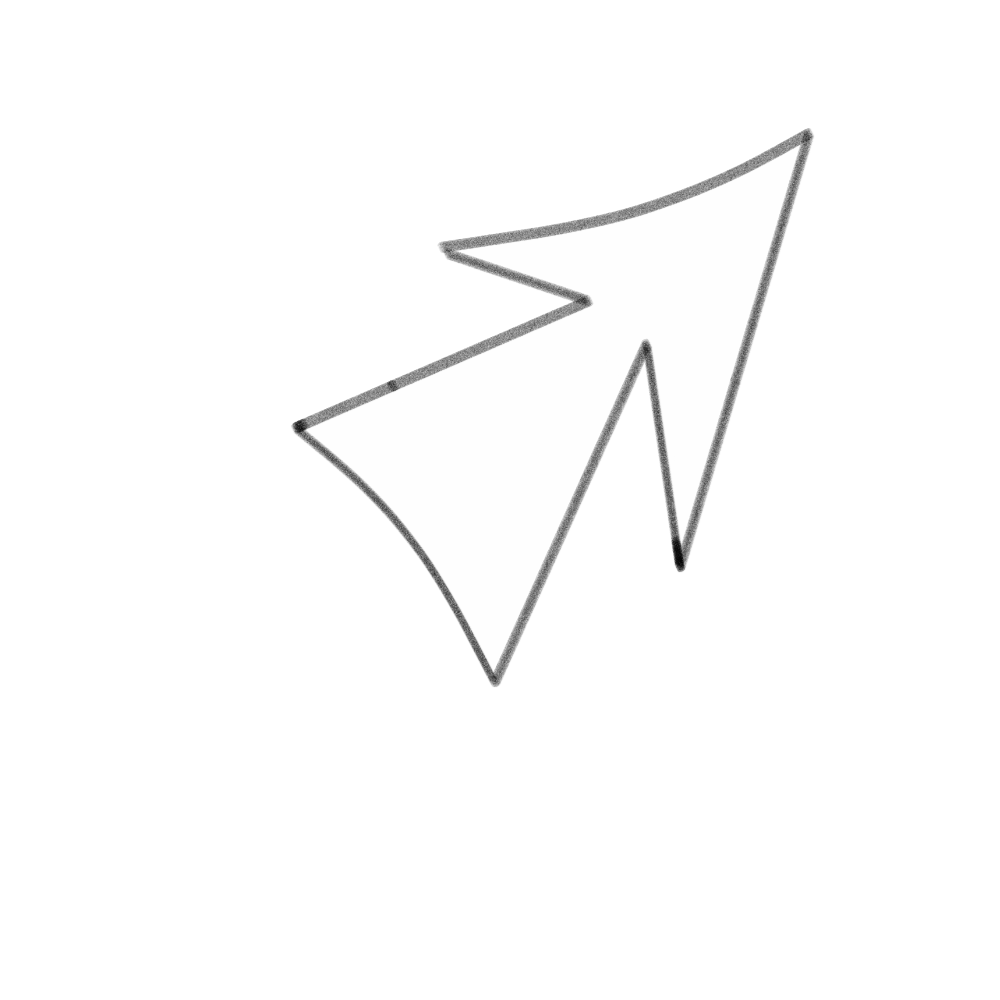
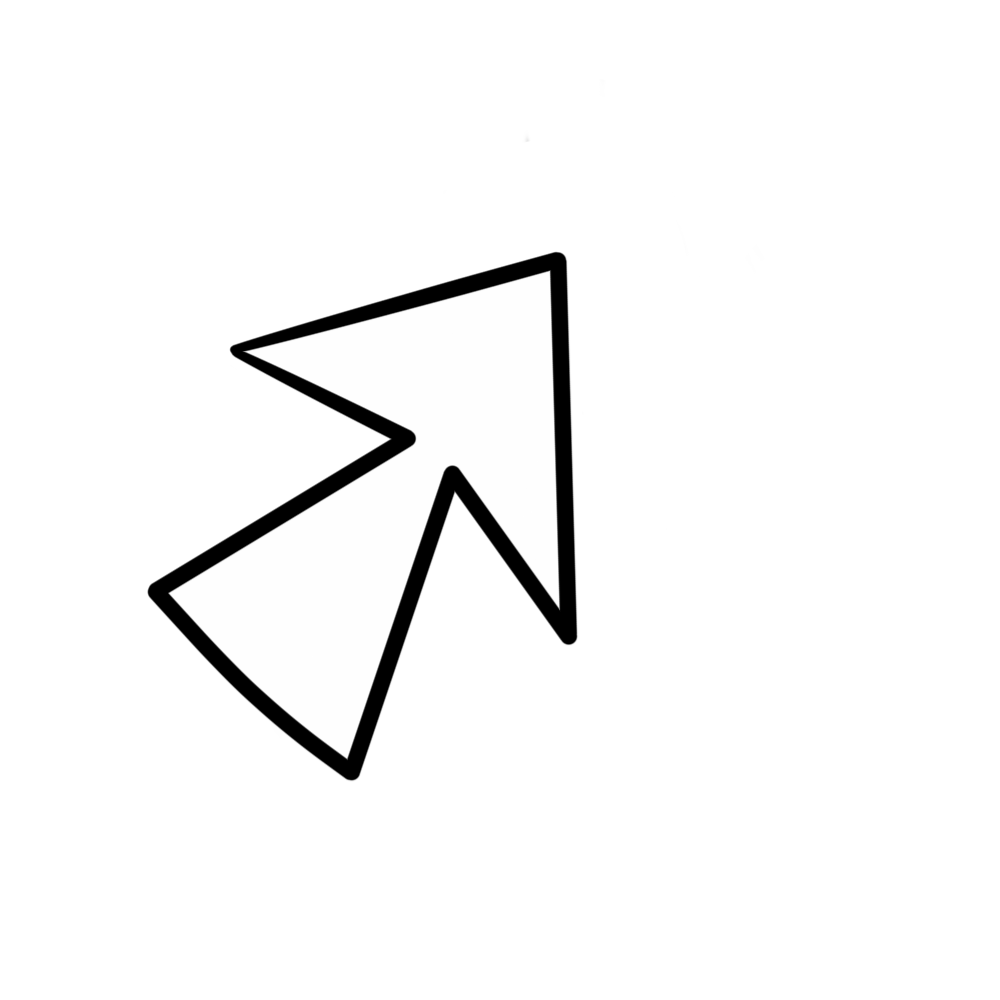
avancement

Changed region(s): [[0.155, 0.124, 0.837, 0.775], [0.62, 0.248, 0.775, 0.558]]

diff --git a/Projet/tibula.html b/Projet/tibula.html
@@ -3,7 +3,7 @@
 <head>
     <meta charset="UTF-8">
     <meta name="viewport" content="width=device-width, initial-scale=1.0">
-    <link type="text/css" rel="stylesheet" href="../css/index.css">
+    <link type="text/css" rel="stylesheet" href="../css/projets.css">
     <link type="text/css" rel="stylesheet" href="../css/general.css">
     <script type="text/javascript" src="../script.js"></script>
     <title>Julian - Tribulations</title>
@@ -12,8 +12,33 @@
     <div class="souris"></div>
     <header id="H"></header><br><br>
     <main>
+        <div class="presentation">
+            <div>
+                <h1 class="titre">Tribulations d'un voyageur temporel</h1>
+                <h2 class="soustitre">Projet personnel de l'été 2025</h2> 
+                <p class="text">
+                    Nous devions réalisés un diorama, une petite scène pouvant inclure des pesonnages, 
+                    en 3D sur blender et en faire un rendu final en 360°.<br>
+                    Grâce à ce projet, j’ai pu grandement m’améliorer sur blender notamment en découvrant de nouvelles fonctions 
+                    et en réalisant un projet que je n’avais encore jamais fais.<br><br>
+                    <strong>Compétences développés :</strong>
+                    <ul>
+                        <li>Blender</li>
+                        <li>Modélisation 3D</li>
+                        <li>Animation 3D</li>
+                        <li>Visualitation dans l'espace</li>
+                        <li>Éclairage</li>
+                    </ul>
+                    <br><br>
+                    <a class="lien" href="https://youtube.com/shorts/M4gK70i4x2w?feature=share"> Si la video ne charge pas</a>
+                </p>
+                
+            </div>
+            <div class="boit_img">
+                <img src="" />
+            </div>
+        </div>
 
-        truc tribulations voyageur
 
     </main>
     <footer id="F"></footer>

diff --git a/css/general.css b/css/general.css
@@ -7,9 +7,9 @@ button, a, .interactive, input {
     position: fixed;
     top: 50%;
     left: 50%;
-    transform: translate(-80%, -15%);
-    width: 8rem;
-    height: 8rem;
+    transform: translate(-55%, -26%);
+    width: 6rem;
+    height: 6rem;
     background-image: url('../img/dessin/souris.png');
     background-size: contain;
     background-repeat: no-repeat;
@@ -17,8 +17,8 @@ button, a, .interactive, input {
     pointer-events: none;
     z-index: 9999;
     @media screen and (max-width : 541px){
-        width: 6rem;
-        height: 6rem;
+        width: 4rem;
+        height: 4rem;
     }
 }
 
